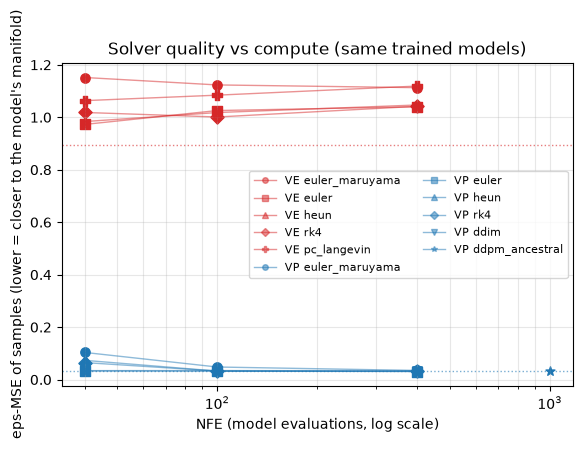
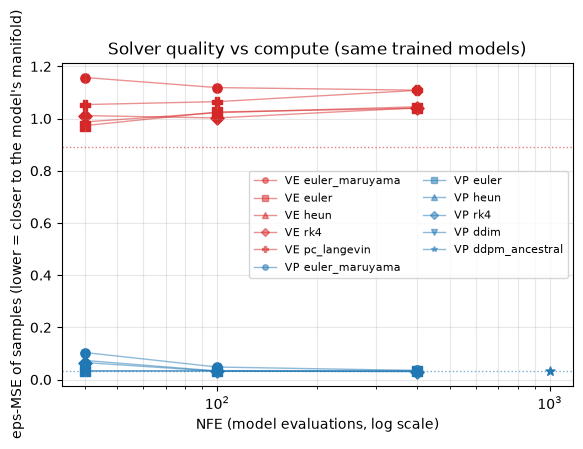
Lesson 02: PC presets tuned per budget via VP-judge — more NFE is worse
User's eyes (backed by a calibrated judge: the VP model's eps-MSE on VE
samples, real=0.03 / noise=0.67) showed the previous 40/100/400 strip had
no digits, and that quality peaked at low budgets: Langevin noise
compounds the rough VE eps-model error over longer chains. Swept
(m_levels, sub, corr, scale) per budget, picked the best:
(10,2,2)/(20,2,3)/(100,1,3) for 40/100/400 — soft readable digits
around 100 NFE, ghosts at 40, grain at 400.

README conclusion updated: the ceiling here is the model, not the
sampler — the fix is EDM-style preconditioning, not sampling tuning.

diff --git a/lessons/02-score-matching/lab/scripts/compare_solvers.py b/lessons/02-score-matching/lab/scripts/compare_solvers.py
@@ -57,10 +57,11 @@ DISCRETE_VP_METHODS = ["ddim", "ddpm_ancestral"]
 # NCSN predictor-corrector (Euler + Langevin corrector) — the only scheme
 # that produces digits with this lab's rough VE model (see README). Presets
 # are (m_levels, euler_sub, corrector_steps); NFE = m_levels·(sub+corr).
-# With corrector_steps = 1 the digits emerge monotonically: 40 = ghosts,
-# 100 = soft readable digits, 400 = sharper (heavier correctors only add
-# speckle — the model's eps-error amplified by the Langevin noise).
-VE_PC_PRESETS = [(20, 1, 1), (50, 1, 1), (200, 1, 1)]
+# Selected per budget with the VP-judge metric (the VP model's eps-MSE on
+# the samples; calibrated: real data 0.03, pure noise 0.67): more NFE makes
+# this model WORSE (0.13 at 40 → 0.19 at 400) — Langevin noise compounds the
+# eps-model error over a longer chain. Soft digits peak around 100 NFE.
+VE_PC_PRESETS = [(10, 2, 2), (20, 2, 3), (100, 1, 3)]
 
 
 def _unnormalize(x: torch.Tensor) -> torch.Tensor:
